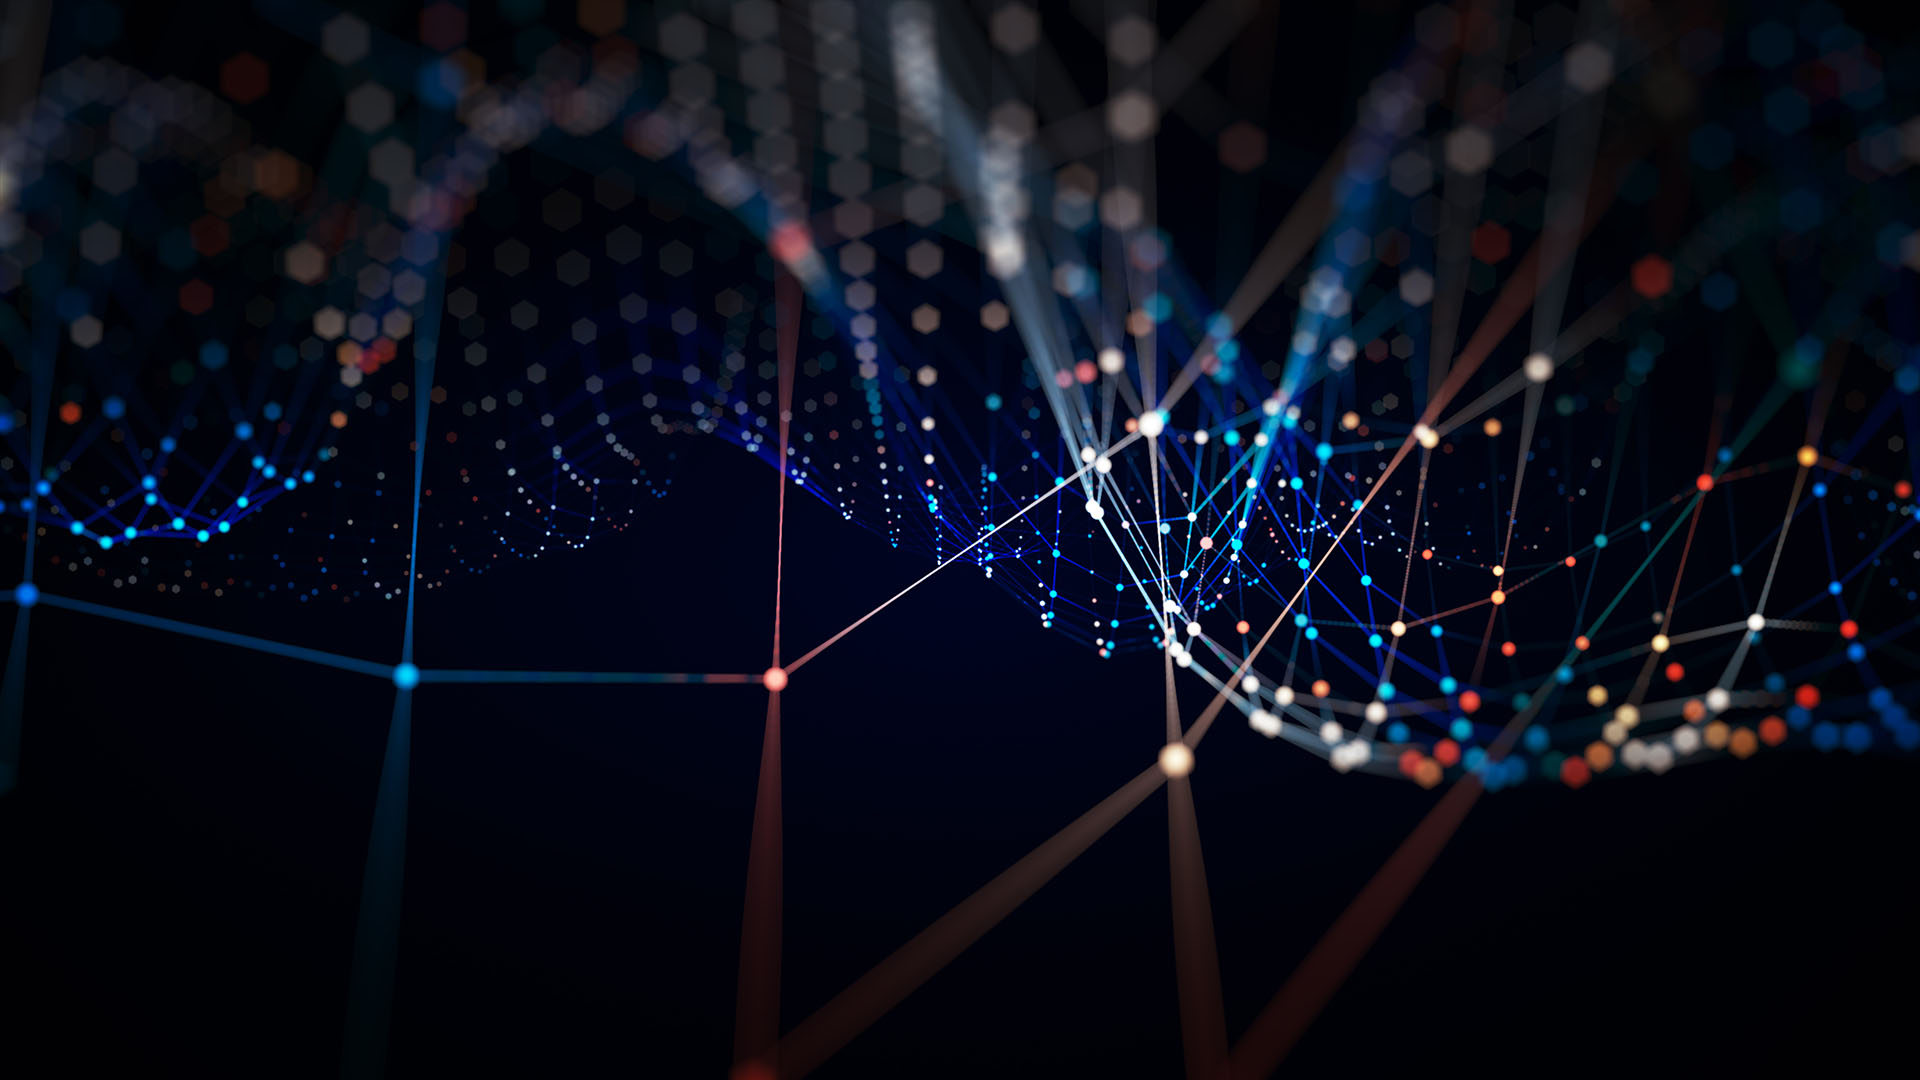
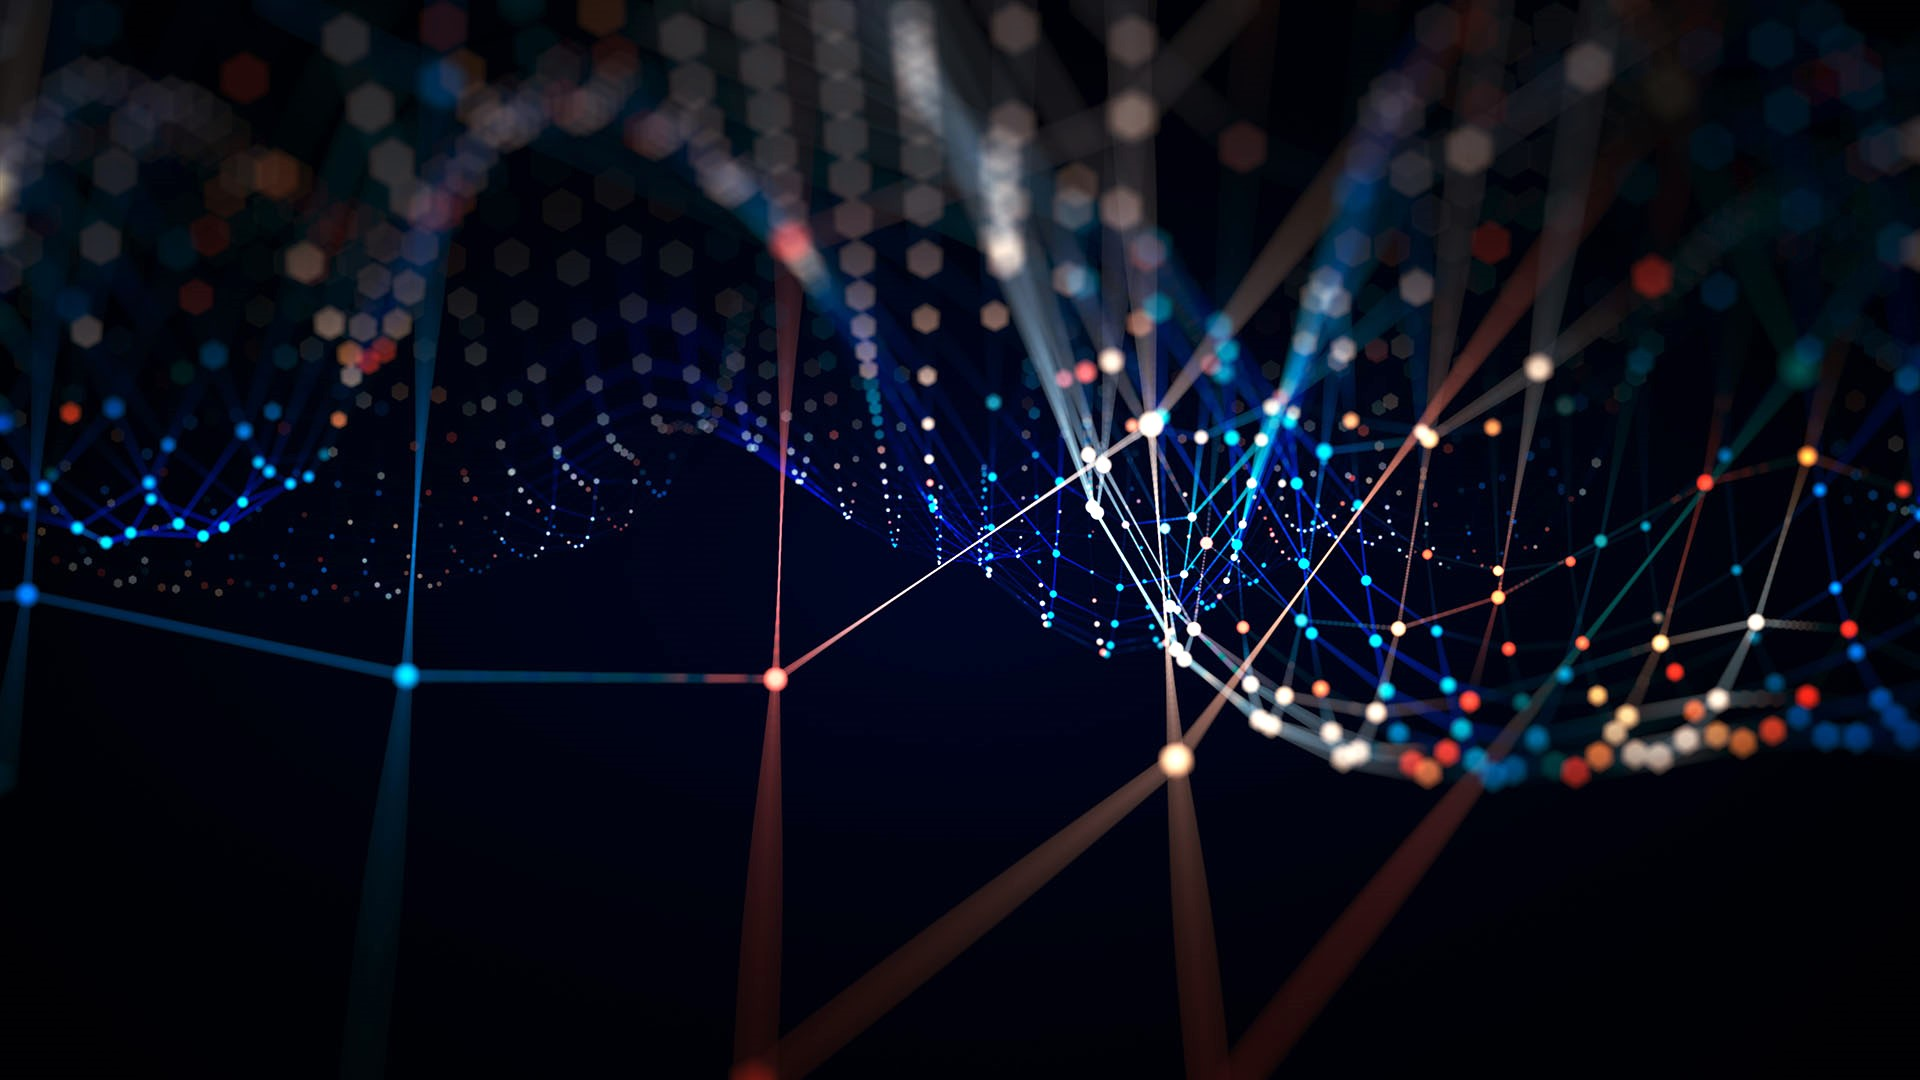
new section

diff --git a/src/components/certificates/Cert.jsx b/src/components/certificates/Cert.jsx
@@ -9,7 +9,7 @@ const Cert = () => {
         <div className="certificates">
             <div className="container">
                 <h2 className="certificates__title">My certificates</h2>
-                <Carousel className="certificates__list" autoPlay interval="5000" transitionTime="2000" infiniteLoop showThumbs={false}>
+                <Carousel className="certificates__list" autoPlay interval="8000" transitionTime="2000" infiniteLoop showThumbs={false}>
                     {certificatetList.map((certificate, index) => {
                         return (
                             <CertInfo

diff --git a/src/components/header/Header.jsx b/src/components/header/Header.jsx
@@ -1,9 +1,12 @@
 import React from 'react';
 import "./_header.scss";
+import back from "../../img/backgroundes/background1.jpg";
 
 function Header() {
     return (
-        <header className="header">
+        <header className="header" style={{
+            backgroundImage: `url(${back})`,
+        }}>
             <div className="header__wrapper">
                 <h1 className="header__title">
                     <strong>Hi, my name is <em>Olena</em></strong>

diff --git a/src/components/header/_header.scss b/src/components/header/_header.scss
@@ -7,10 +7,6 @@
 	display: flex;
 	justify-content: center;
 	align-items: center;
-
-	background-image: linear-gradient(rgba(18, 73, 199, 0.5), rgba(255, 255, 190, 0.3)),
-	url(../../img/backgroundes/background1.jpg);
-                  
 	background-position: center center;
 	background-repeat: no-repeat;
 	background-color: transparent;

diff --git a/src/styles/style.css b/src/styles/style.css
@@ -295,7 +295,6 @@ body {
   display: flex;
   justify-content: center;
   align-items: center;
-  background-image: linear-gradient(rgba(18, 73, 199, 0.5), rgba(255, 255, 190, 0.3));
   background-position: center center;
   background-repeat: no-repeat;
   background-color: transparent;
